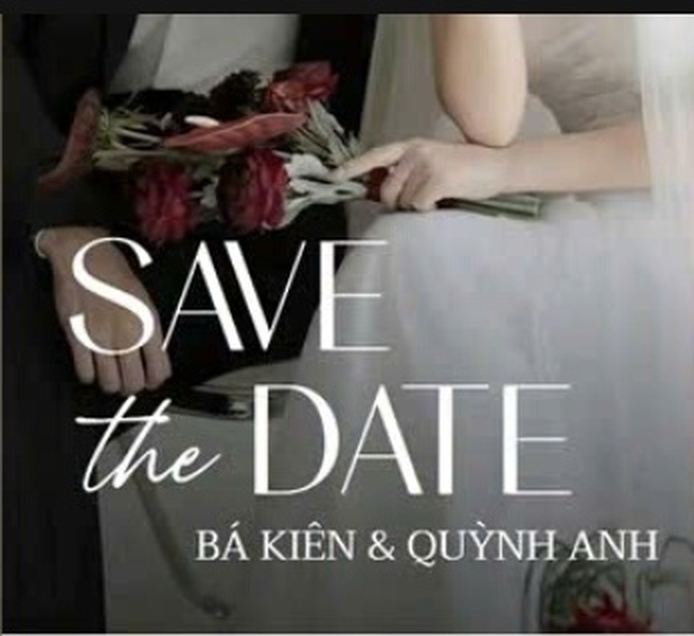
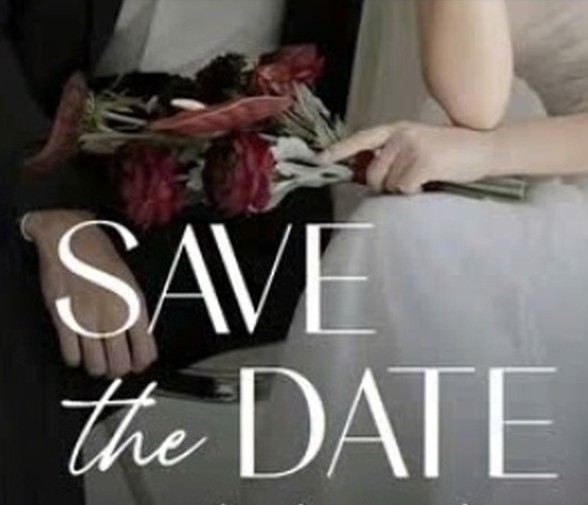
speed

diff --git a/invitation-app/src/ThoaHai/index.tsx b/invitation-app/src/ThoaHai/index.tsx
@@ -192,7 +192,7 @@ export default function ThoaHai({ defaultOpened = false }: ThoaHaiProps) {
     }
 
     let lastTime: number | null = null;
-    const scrollSpeed = 0.040; // Chậm rãi, thư thái để người xem kịp ngắm nhìn các hiệu ứng chữ xuất hiện ở giữa màn hình
+    const scrollSpeed = 0.050; // Chậm rãi, thư thái để người xem kịp ngắm nhìn các hiệu ứng chữ xuất hiện ở giữa màn hình
 
     const scrollLoop = (time: number) => {
       if (!isAutoScrollingRef.current) return;
@@ -399,9 +399,8 @@ export default function ThoaHai({ defaultOpened = false }: ThoaHaiProps) {
       {/* ── NỘI DUNG CUỘN CHÍNH CỦA THIỆP ── */}
       <div
         ref={containerRef}
-        className={`relative w-full max-w-[450px] th-font-sans bg-[#faf5ee] shadow-[0_10px_40px_rgba(0,0,0,0.06)] border-x min-h-screen pb-24 overflow-x-hidden ${
-          opened ? 'th-content-reveal' : 'opacity-0'
-        }`}
+        className={`relative w-full max-w-[450px] th-font-sans bg-[#faf5ee] shadow-[0_10px_40px_rgba(0,0,0,0.06)] border-x min-h-screen pb-24 overflow-x-hidden ${opened ? 'th-content-reveal' : 'opacity-0'
+          }`}
         style={{ borderColor: 'rgba(178,148,110,0.2)', color: '#3d2c1e' }}
       >
         {/* Falling Petals */}
